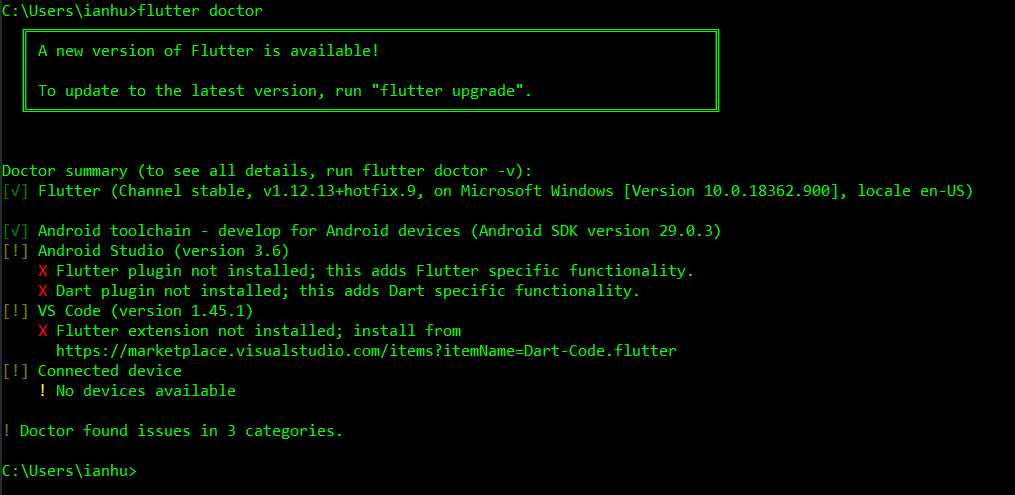
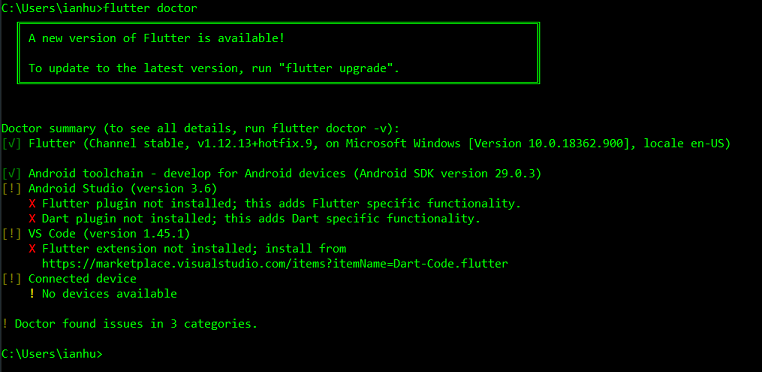
update images

diff --git a/HelloFlutter1/helloFlutter1.md b/HelloFlutter1/helloFlutter1.md
@@ -8,7 +8,7 @@ I've always had an interest in UI frameworks, so I wanted to give Flutter a quic
 
 To start with, the installation consisting of just unzipping to a directory and adding to that path was much appreciated. Years of working with Visual Studio have given me too much fear every time I install a dev tool on my machine. Will I be able to remove it? What is it actually installing? Love knowing that I can just delete a folder and clear it from my path to get back to zero Flutter on my box. The `flutter doctor` application was also very helpful to provide a quick command line look at exactly what I had installed on my system and if I was ready to run.
 
-![Flutter doctor](https://github.com/IanMatthewHuff/Blog/blob/9a31e404f7befd89a9c27db53a6fb6dc456685aa/HelloFlutter1/Images/FlutterDoctor.PNG)
+![Flutter doctor](https://raw.githubusercontent.com/IanMatthewHuff/Blog/master/HelloFlutter1/Images/FlutterDoctor.PNG)
 
 ### VS Code Setup
 
@@ -18,7 +18,7 @@ VS Code is my editor of choice (full disclosure, I work on the Microsoft Python 
 
 The integration seems good here so far. I like that the effort was taken to enforce even on the smaller conventions, like the new project command making sure to validate that Flutter naming conventions were being followed before creating.
 
-![Flutter naming warning](https://github.com/IanMatthewHuff/Blog/blob/2b2b3503ed2c71e13ecf456b4ee05d11d90c7edf/HelloFlutter1/Images/NameWarning.PNG)
+![Flutter naming warning](https://raw.githubusercontent.com/IanMatthewHuff/Blog/master/HelloFlutter1/Images/NameWarning.PNG)
 
 ### Android SDK / Emulator setup
 
@@ -26,4 +26,4 @@ In a previous career step at Microsoft I used to maintain the Visual Studio C++ 
 
 ### Hello Flutter
 
-![Running emulator](https://github.com/IanMatthewHuff/Blog/blob/a2107e10826a05b7bdb116c584be200390adfb13/HelloFlutter1/Images/RunningEmulator.png)
+![Running emulator](https://raw.githubusercontent.com/IanMatthewHuff/Blog/master/HelloFlutter1/Images/RunningEmulator.png)
